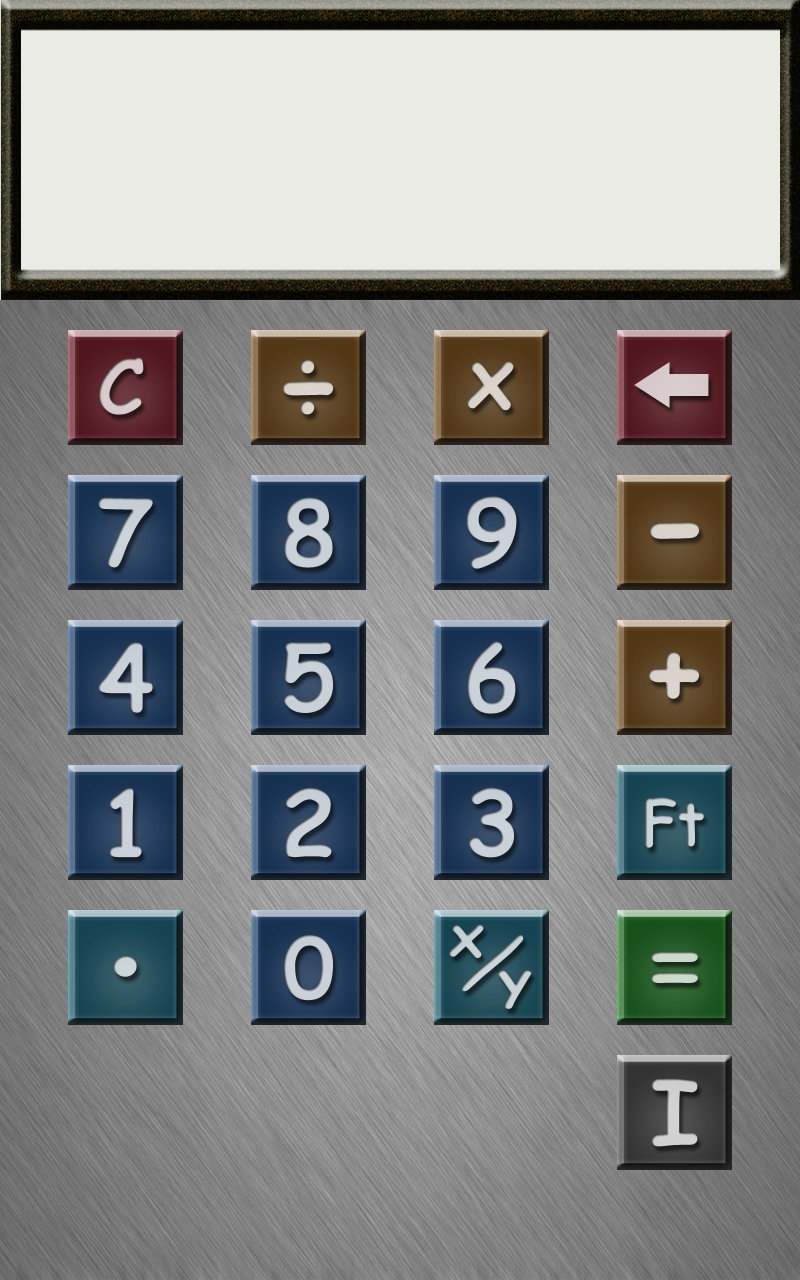
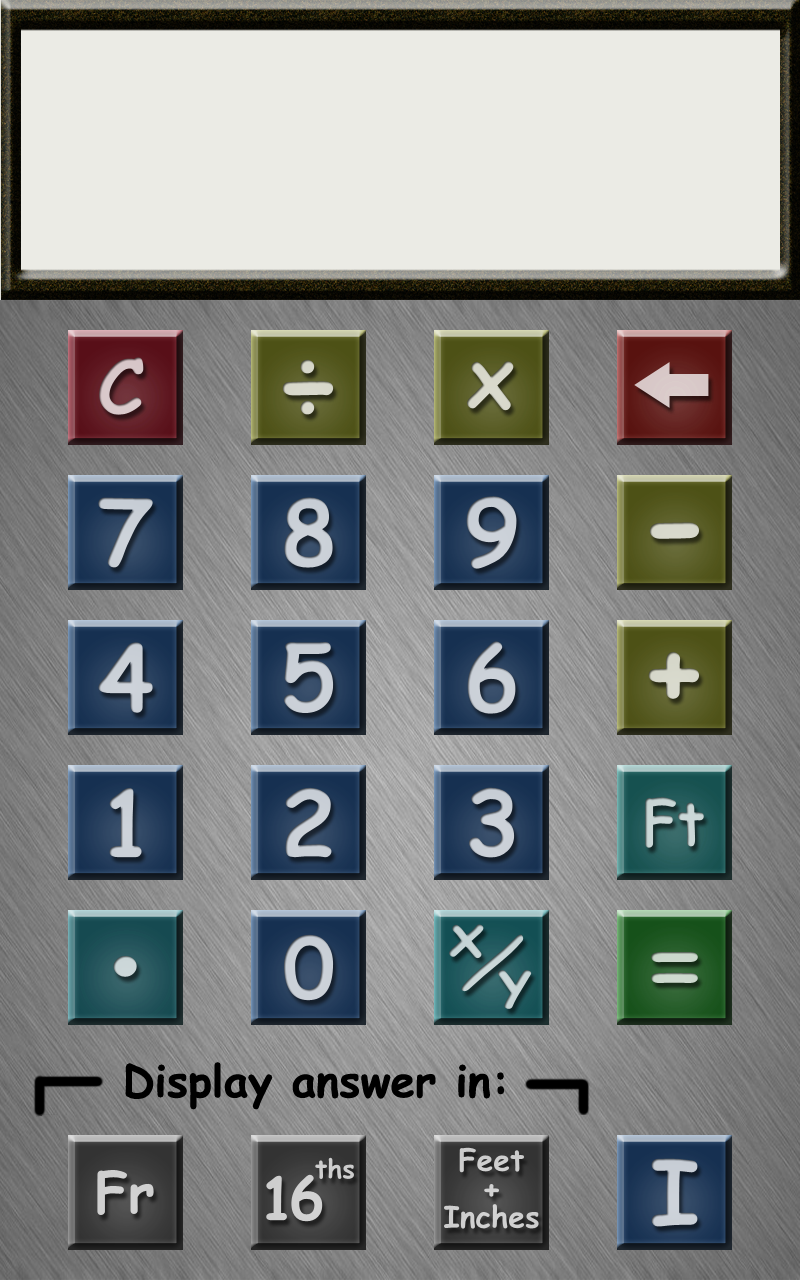
Add Fractions Page, tweak main layout

diff --git a/src/com/randkprogramming/tapemeasurecalculator/calculator/screens/MainCalculatorScreen.java b/src/com/randkprogramming/tapemeasurecalculator/calculator/screens/MainCalculatorScreen.java
@@ -12,6 +12,8 @@ import com.randkprogramming.tapemeasurecalculator.interfaces.Screen;
 import com.randkprogramming.tapemeasurecalculator.calculator.assets.Assets;
 import com.randkprogramming.tapemeasurecalculator.calculator.mechanics.*;
 
+import java.awt.font.TextAttribute;
+import java.text.AttributedString;
 import java.util.List;
 import java.util.Scanner;
 
@@ -83,11 +85,11 @@ public class MainCalculatorScreen extends Screen {
         g.drawPixmap(Assets.main_calculator, 0, 0);
         drawEquation(g);
 
-        g.drawPixmap(Assets.fractionOrDecimal[CalcState.fractionOrDecimal.ordinal()], 68, 1055);
+        g.drawPixmap(Assets.fractionOrDecimal[CalcState.fractionOrDecimal.ordinal()], 68, 1135);
         if(CalcState.fractionOrDecimal == DisplayModes.FractionOrDecimal.FRACTION_OPTION) {
-            g.drawPixmap(Assets.fractionPrecision[CalcState.fractionPrecision.ordinal()], 251, 1055);
+            g.drawPixmap(Assets.fractionPrecision[CalcState.fractionPrecision.ordinal()], 251, 1135);
         }
-        g.drawPixmap(Assets.units[CalcState.displayUnits.ordinal()], 434, 1055);
+        g.drawPixmap(Assets.units[CalcState.displayUnits.ordinal()], 434, 1135);
     }
 
     public static final int[] yCoordsSmallText = {75,135,195,255};
@@ -190,6 +192,8 @@ public class MainCalculatorScreen extends Screen {
         for (int row = 0; row < NUM_ROWS; row++) {
             yCoords[row] = (Y_OFFSET + VERTICAL_GAP + row * (BUTTON_HEIGHT + VERTICAL_GAP)) - (VERTICAL_GAP / 2);
         }
+        // Last row is offset more pixels
+        yCoords[NUM_ROWS - 1] += 80; // From 1055 to 1135
     }
 
     /** Checks to see if the event fired is in bounds of a button. If it is, then it lets

diff --git a/src/com/randkprogramming/tapemeasurecalculator/impl/AndroidTapemeasureCalculator.java b/src/com/randkprogramming/tapemeasurecalculator/impl/AndroidTapemeasureCalculator.java
@@ -13,6 +13,8 @@ import com.randkprogramming.tapemeasurecalculator.interfaces.Graphics;
 import com.randkprogramming.tapemeasurecalculator.interfaces.Input;
 import com.randkprogramming.tapemeasurecalculator.interfaces.Screen;
 
+import java.util.List;
+
 public abstract class AndroidTapemeasureCalculator extends Activity implements Calculator {
     AndroidFastRenderView renderView;
     Graphics graphics;
@@ -76,9 +78,9 @@ public abstract class AndroidTapemeasureCalculator extends Activity implements C
 
         this.screen.pause();
         this.screen.dispose();
+        this.screen = screen;
         screen.resume();
         screen.update(0);
-        this.screen = screen;
     }
 
     public Screen getCurrentScreen() {return screen;}

diff --git a/src/com/randkprogramming/tapemeasurecalculator/calculator/assets/Assets.java b/src/com/randkprogramming/tapemeasurecalculator/calculator/assets/Assets.java
@@ -23,7 +23,7 @@ public class Assets {
         main_calculator = g.newPixmap("square_colored.png", Graphics.PixmapFormat.RGB565);
         thirtyseconds_screen = g.newPixmap("32nds_screen.png", Graphics.PixmapFormat.RGB565);
         sixteenths_screen = g.newPixmap("16ths_screen.png", Graphics.PixmapFormat.RGB565);
-        manual_fraction_screen= g.newPixmap("manual_fraction_screen.png", Graphics.PixmapFormat.RGB565);
+        manual_fraction_screen= g.newPixmap("fraction_screen.png", Graphics.PixmapFormat.RGB565);
 
         fractionOrDecimal[0] = g.newPixmap("fraction_option.png", Graphics.PixmapFormat.RGB565);
         fractionOrDecimal[1] = g.newPixmap("decimal_option.png", Graphics.PixmapFormat.RGB565);
